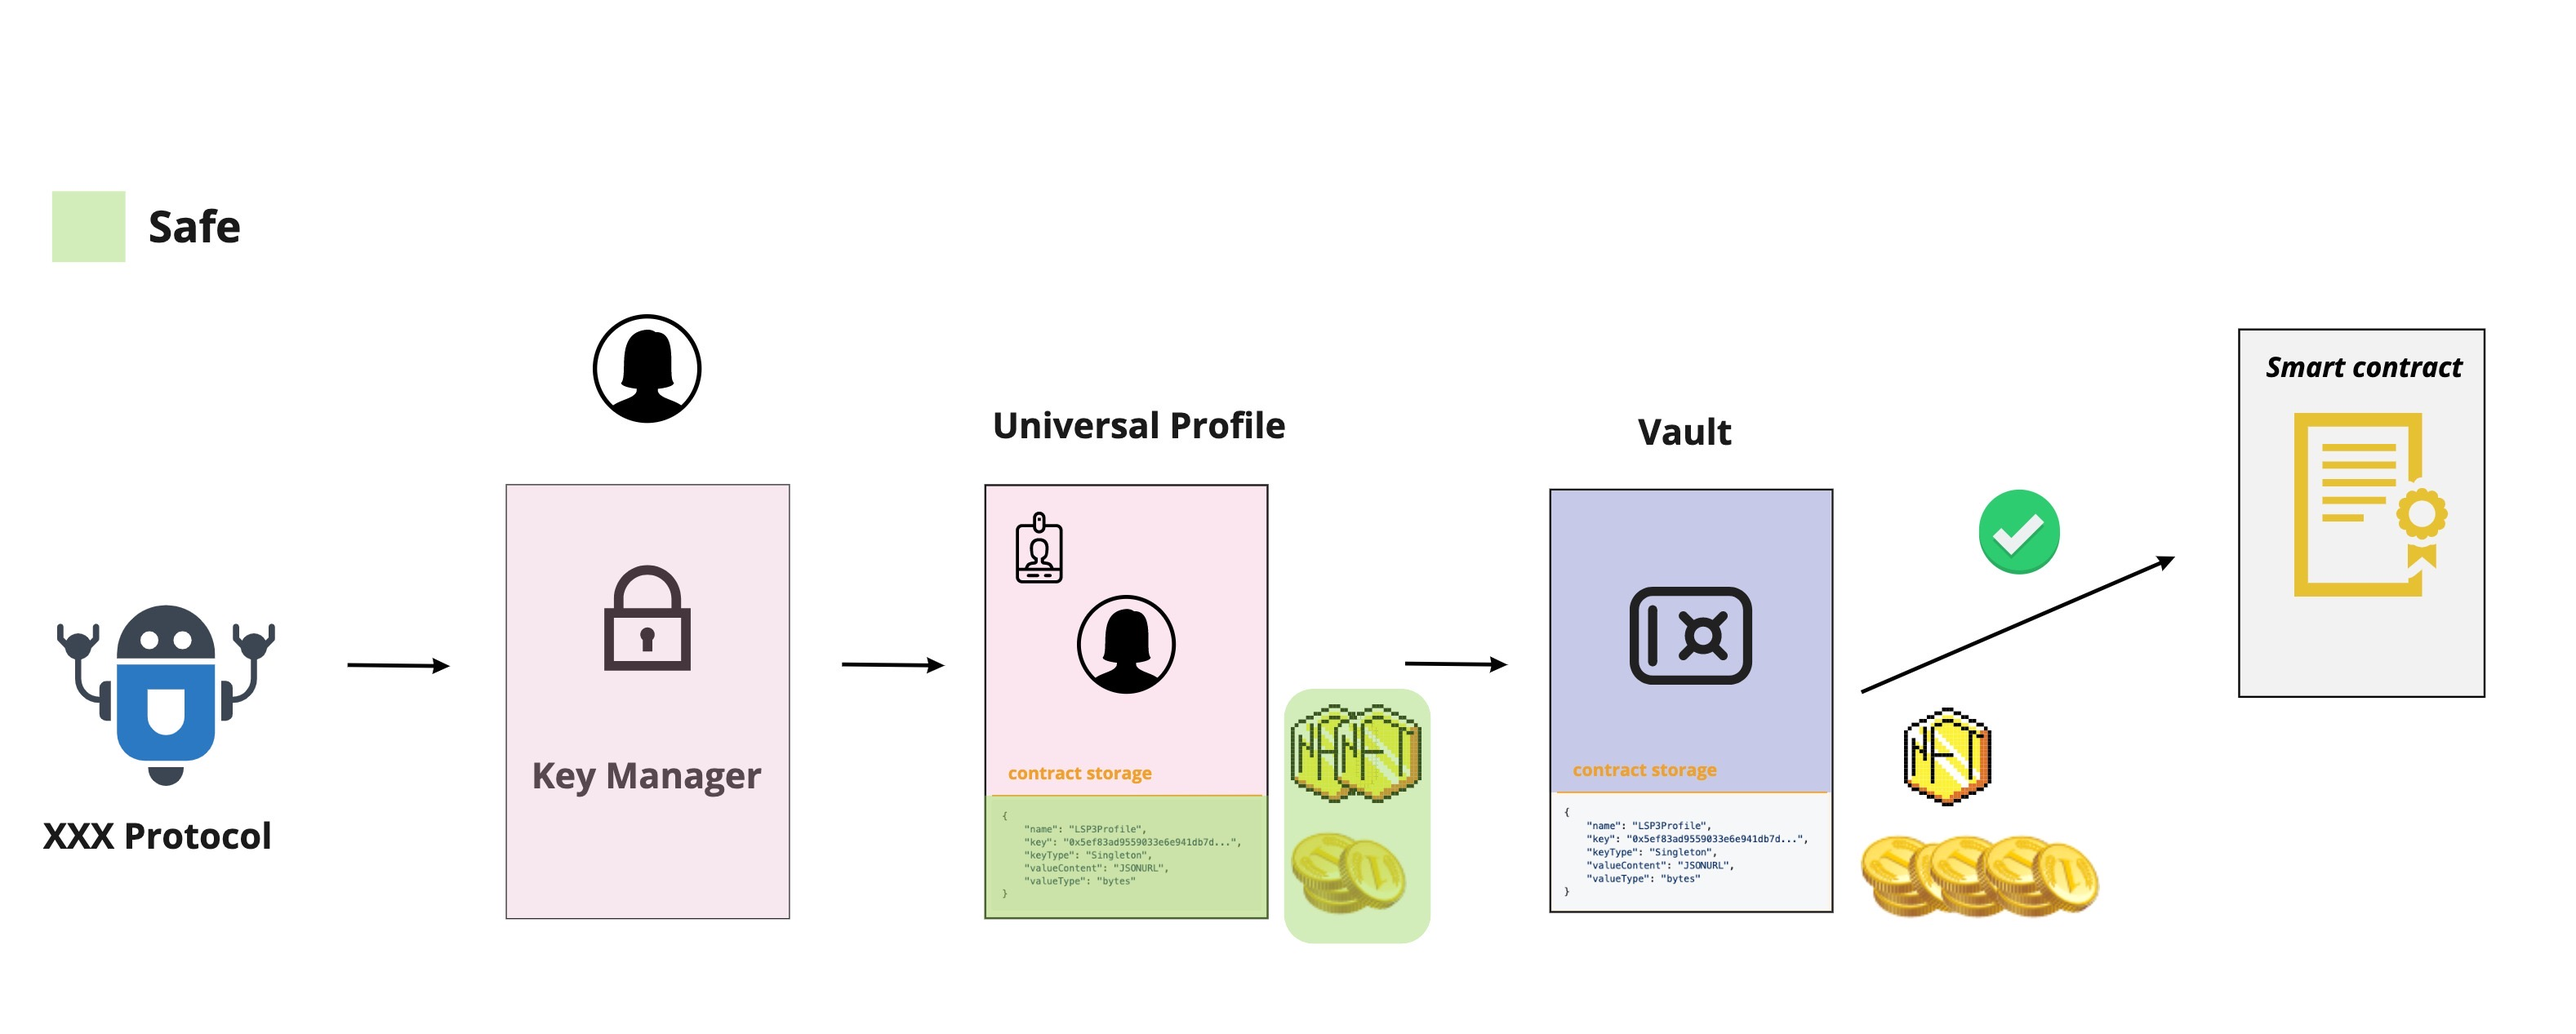
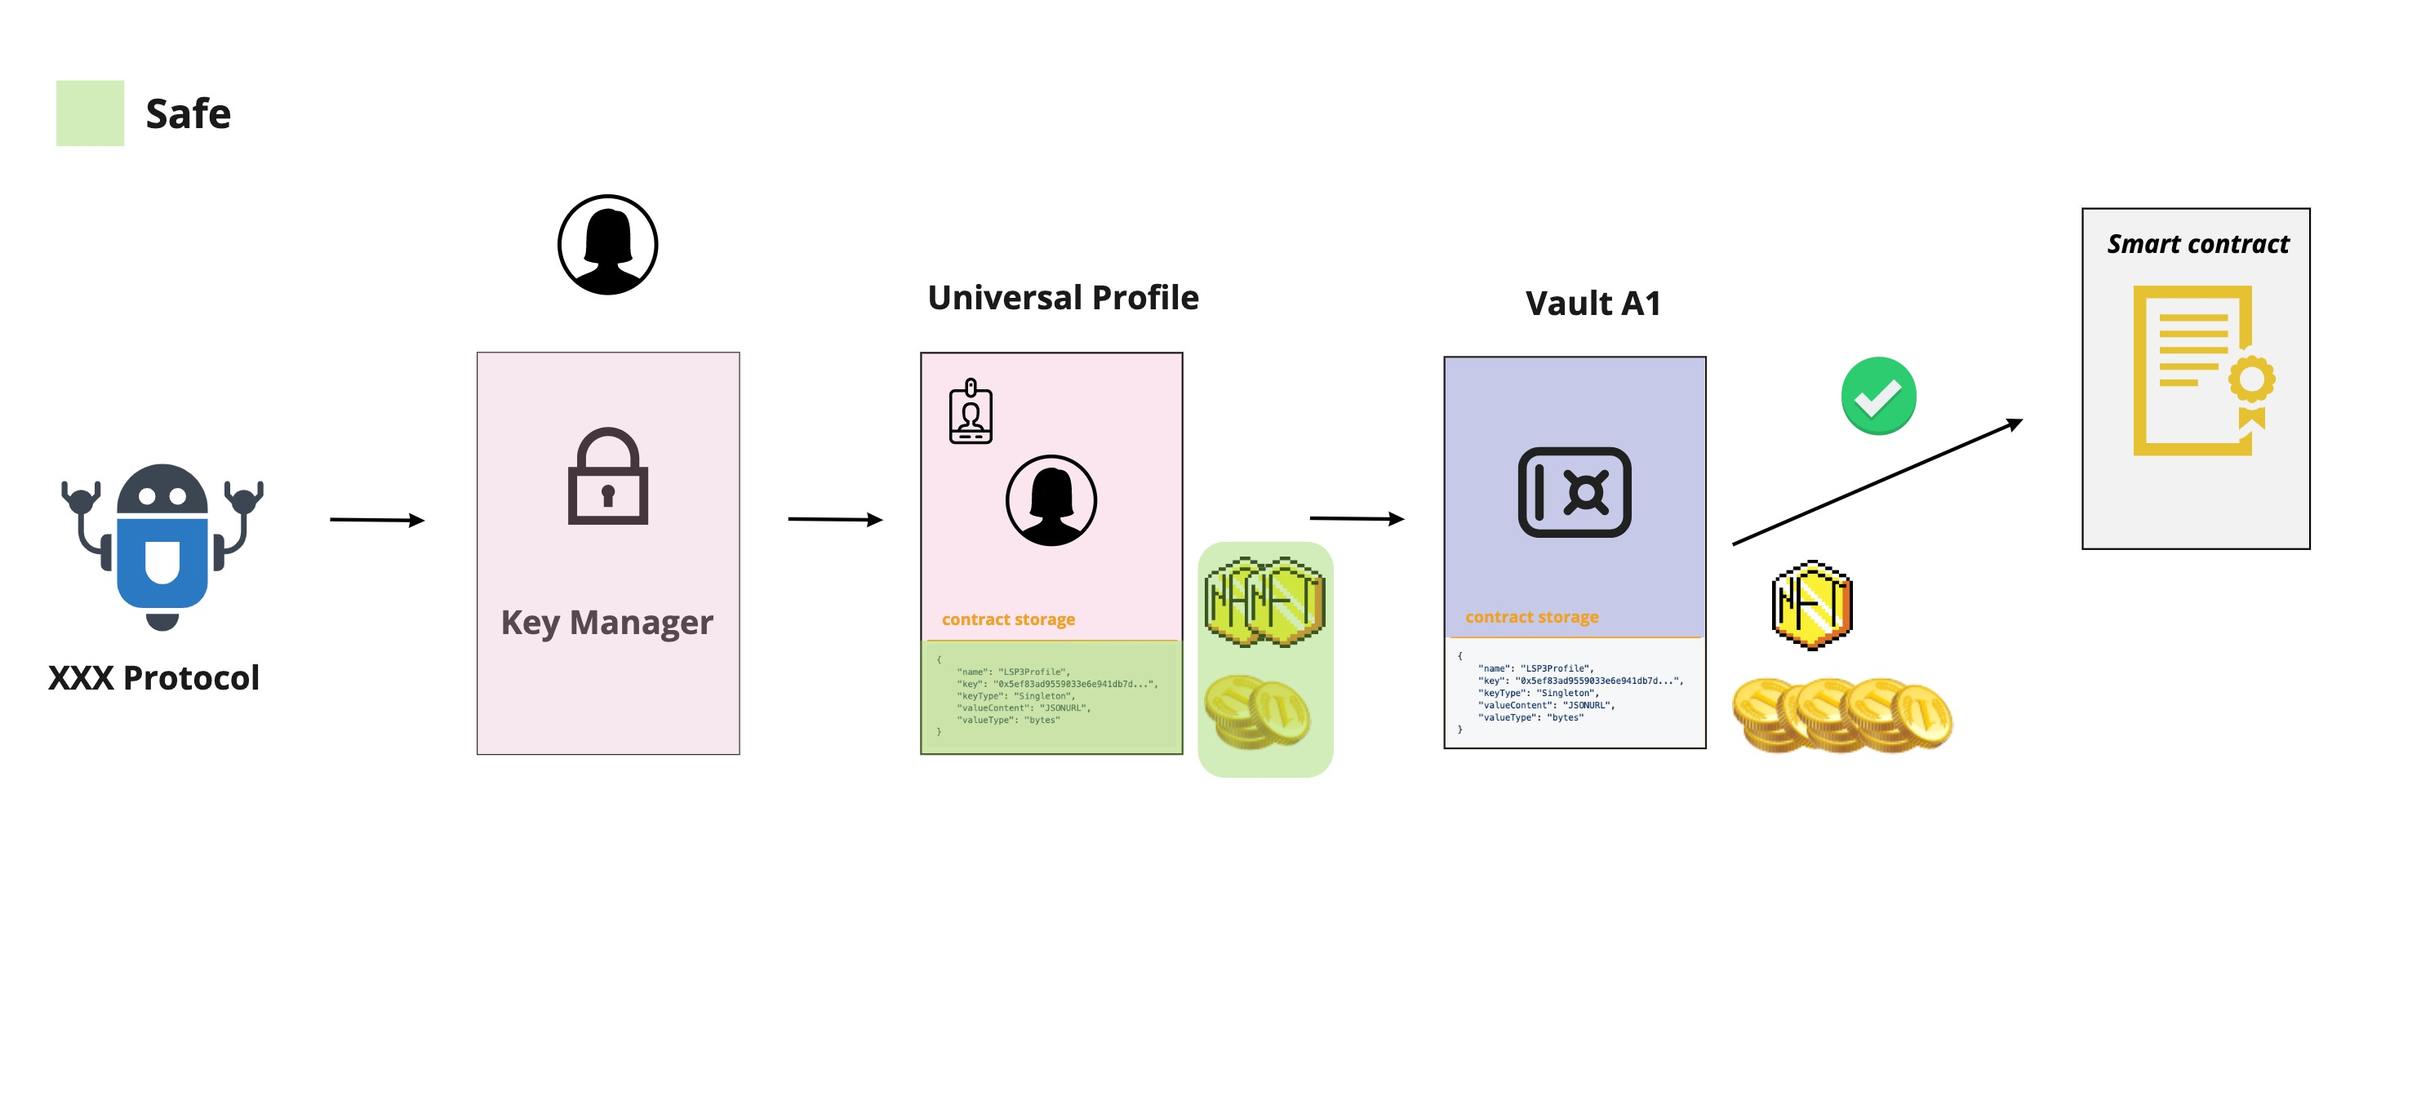
docs: edit lsp9 figures

diff --git a/docs/standards/universal-profile/07-lsp9-vault.md b/docs/standards/universal-profile/07-lsp9-vault.md
@@ -66,4 +66,10 @@ This can happen by setting a **[LSP1-UniversalReceiverDelegate](./02-lsp1-univer
 
 The vault could be used to hold assets but also as mentioned before, could be used to restrict third parties to only operate on the assets and metadata of the vault and not the UniversalProfile. This way the metadata and the assets owned by the UniversalProfile are completely safe if the third party tried to act maliciously.
 
+**1.** The **protocol** should be allowed to only talk to the vault A1 through [AllowedAddresses permission](./lsp6-key-manager#address-permissions).
+
+![LSP9 vault allowed in profile](../../../static/img/vault-flow.jpeg)
+
+**2.** All the **protocol** transactions should be routed through the vault, otherwise, the transaction will **revert**.
+
 ![LSP9 vault with third parties flow](../../../static/img/lsp9-vault-flow.jpeg)
